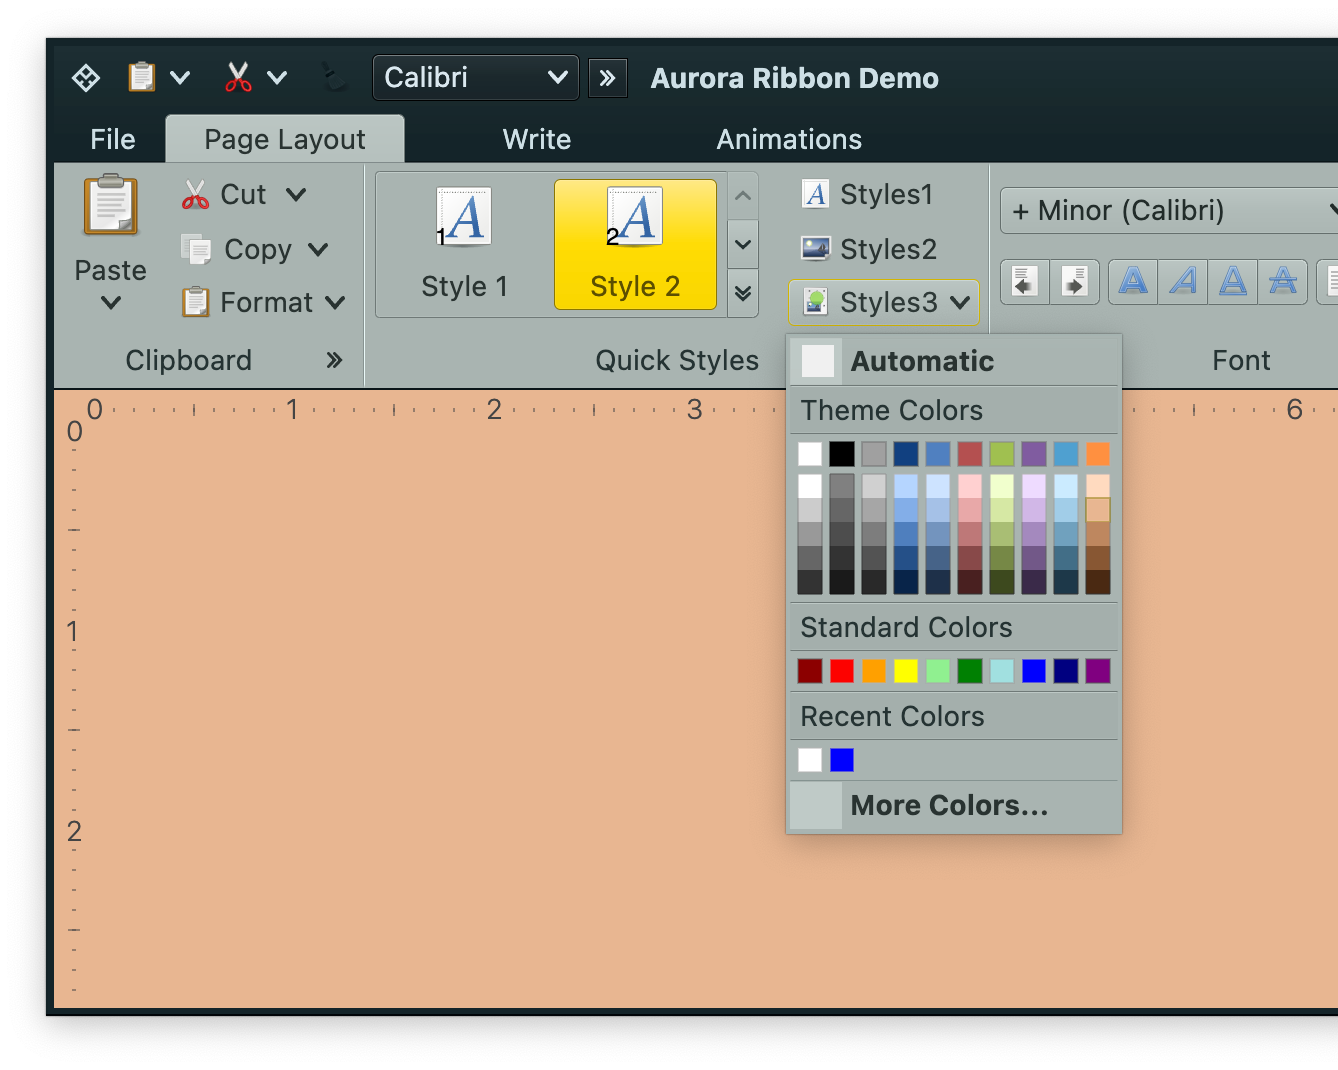
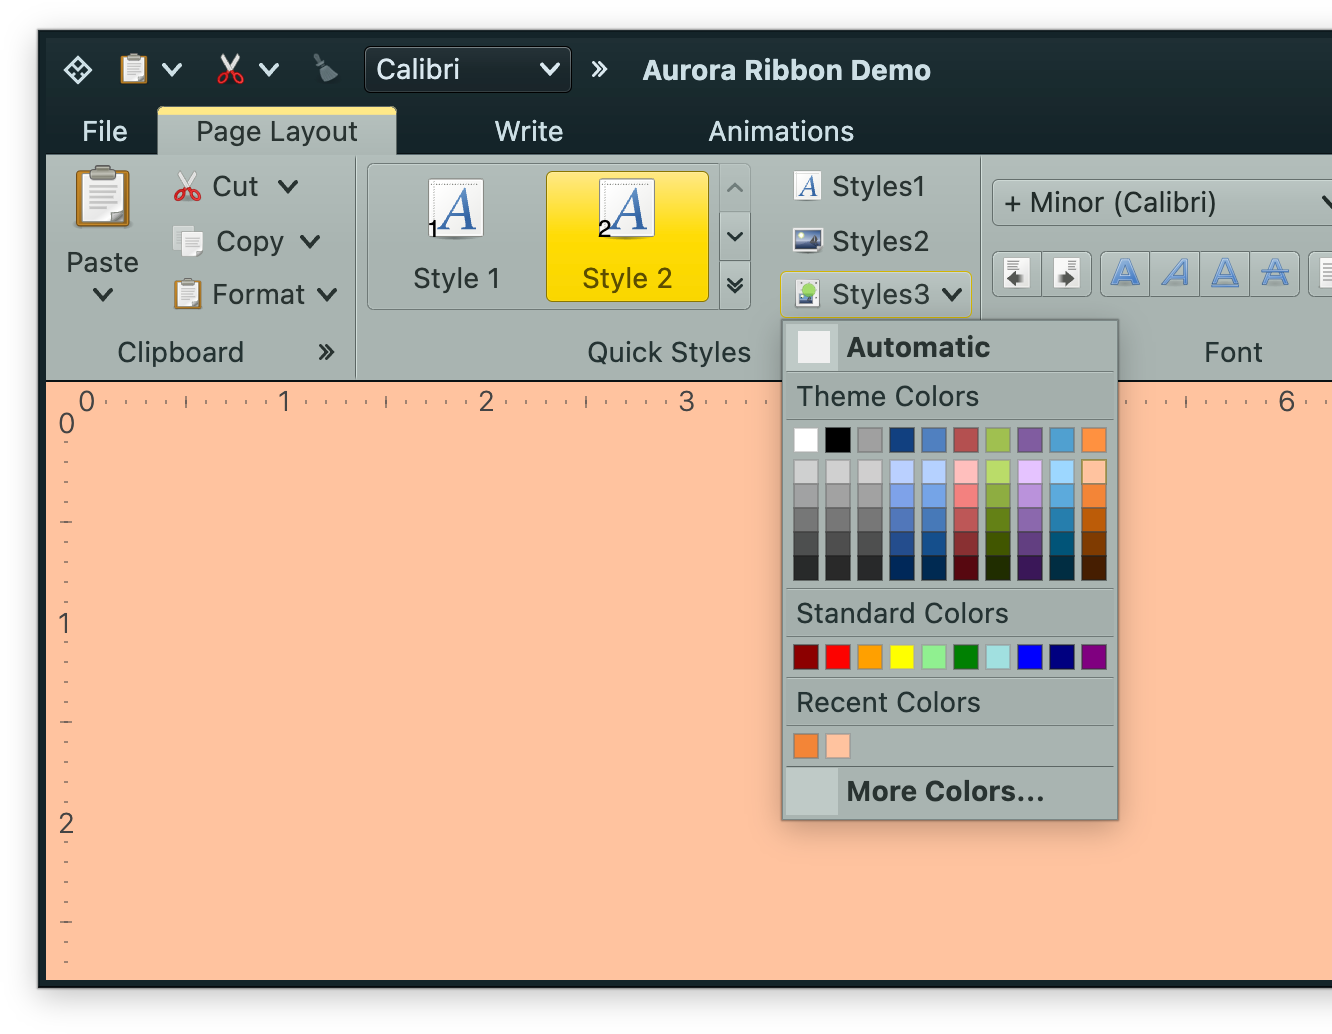
Update screenshots of color selector docs

Changed region(s): [[0.0, 0.0, 1.0, 0.9594], [0.5848, 0.4023, 0.8619, 0.8046], [0.8311, 0.3095, 1.0, 0.4023]]

diff --git a/docs/component/ColorSelectorCommand.md b/docs/component/ColorSelectorCommand.md
@@ -1,6 +1,6 @@
 ## Components - command popup menus
 
-<img src="https://raw.githubusercontent.com/kirill-grouchnikov/aurora/icicle/docs/images/component/walkthrough/color-selector-command1.png" width="669" border=0/>
+<img src="https://raw.githubusercontent.com/kirill-grouchnikov/aurora/icicle/docs/images/component/walkthrough/color-selector-command1.png" width="666" border=0/>
 
 A projection of a color selector command is a popup button ("Styles3" button in the screenshot above) that displays a popup menu with regular commands and additional, optional three color selector panels:
 - color section with derived colors
